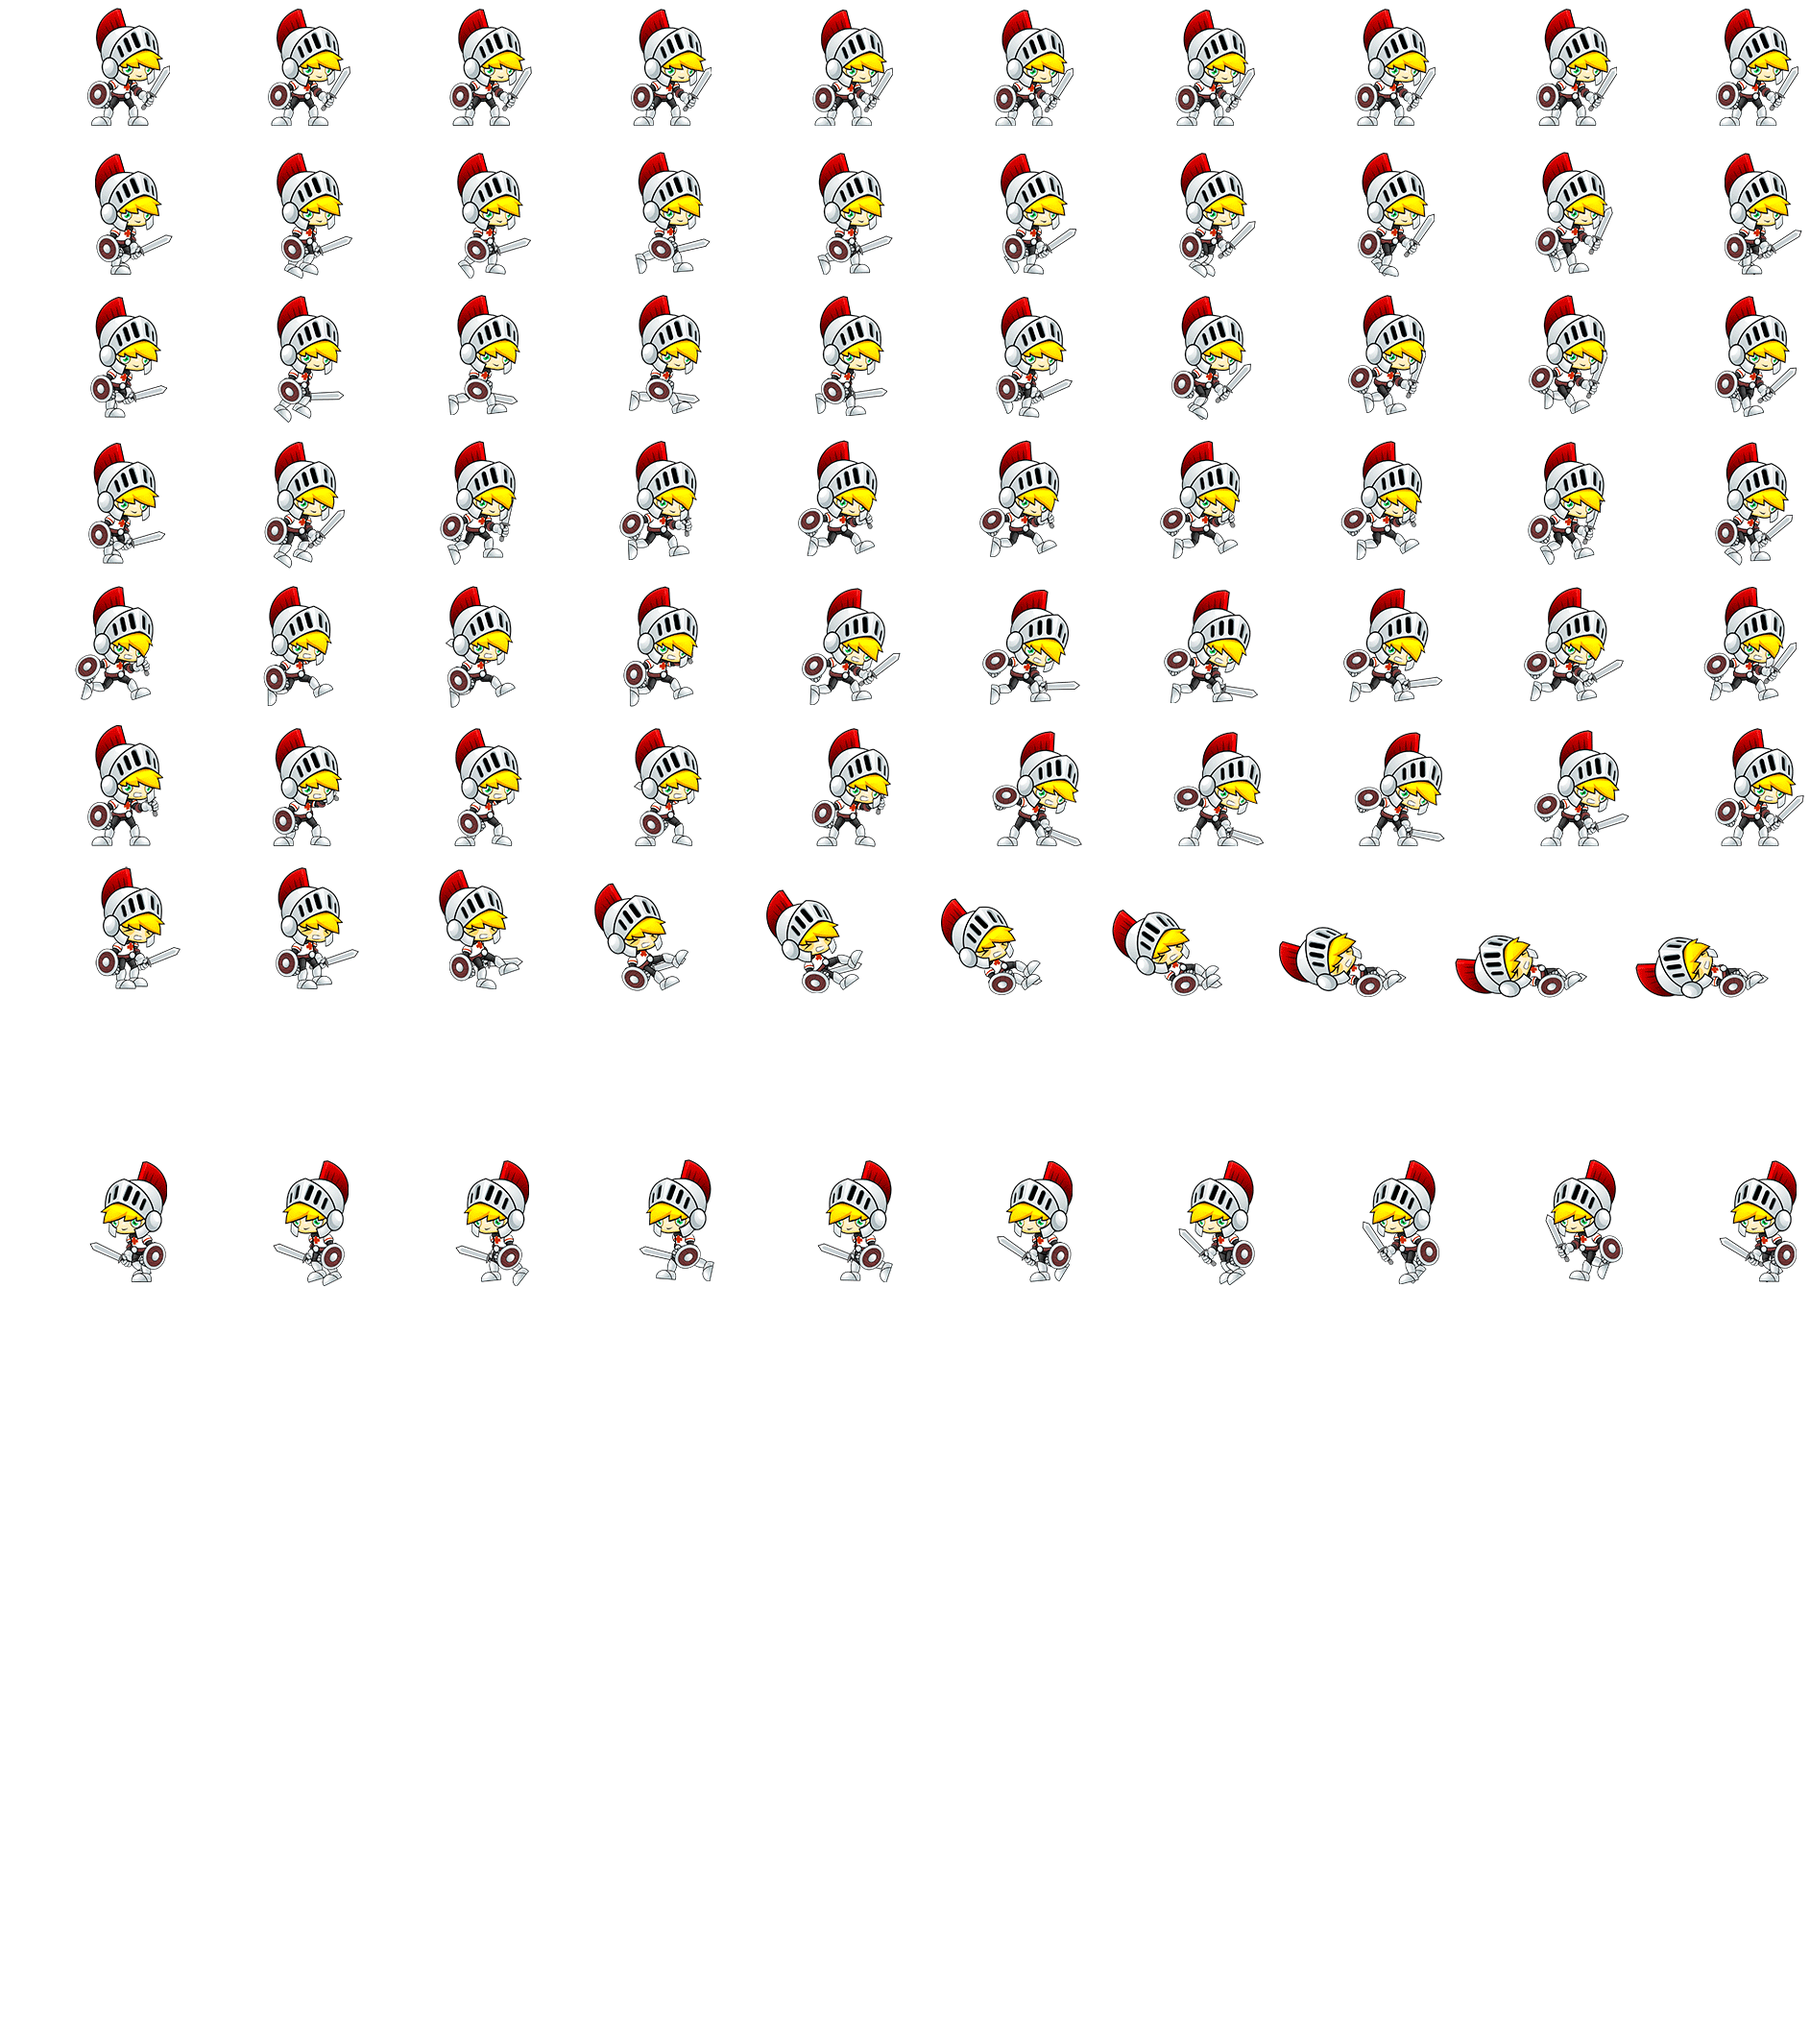
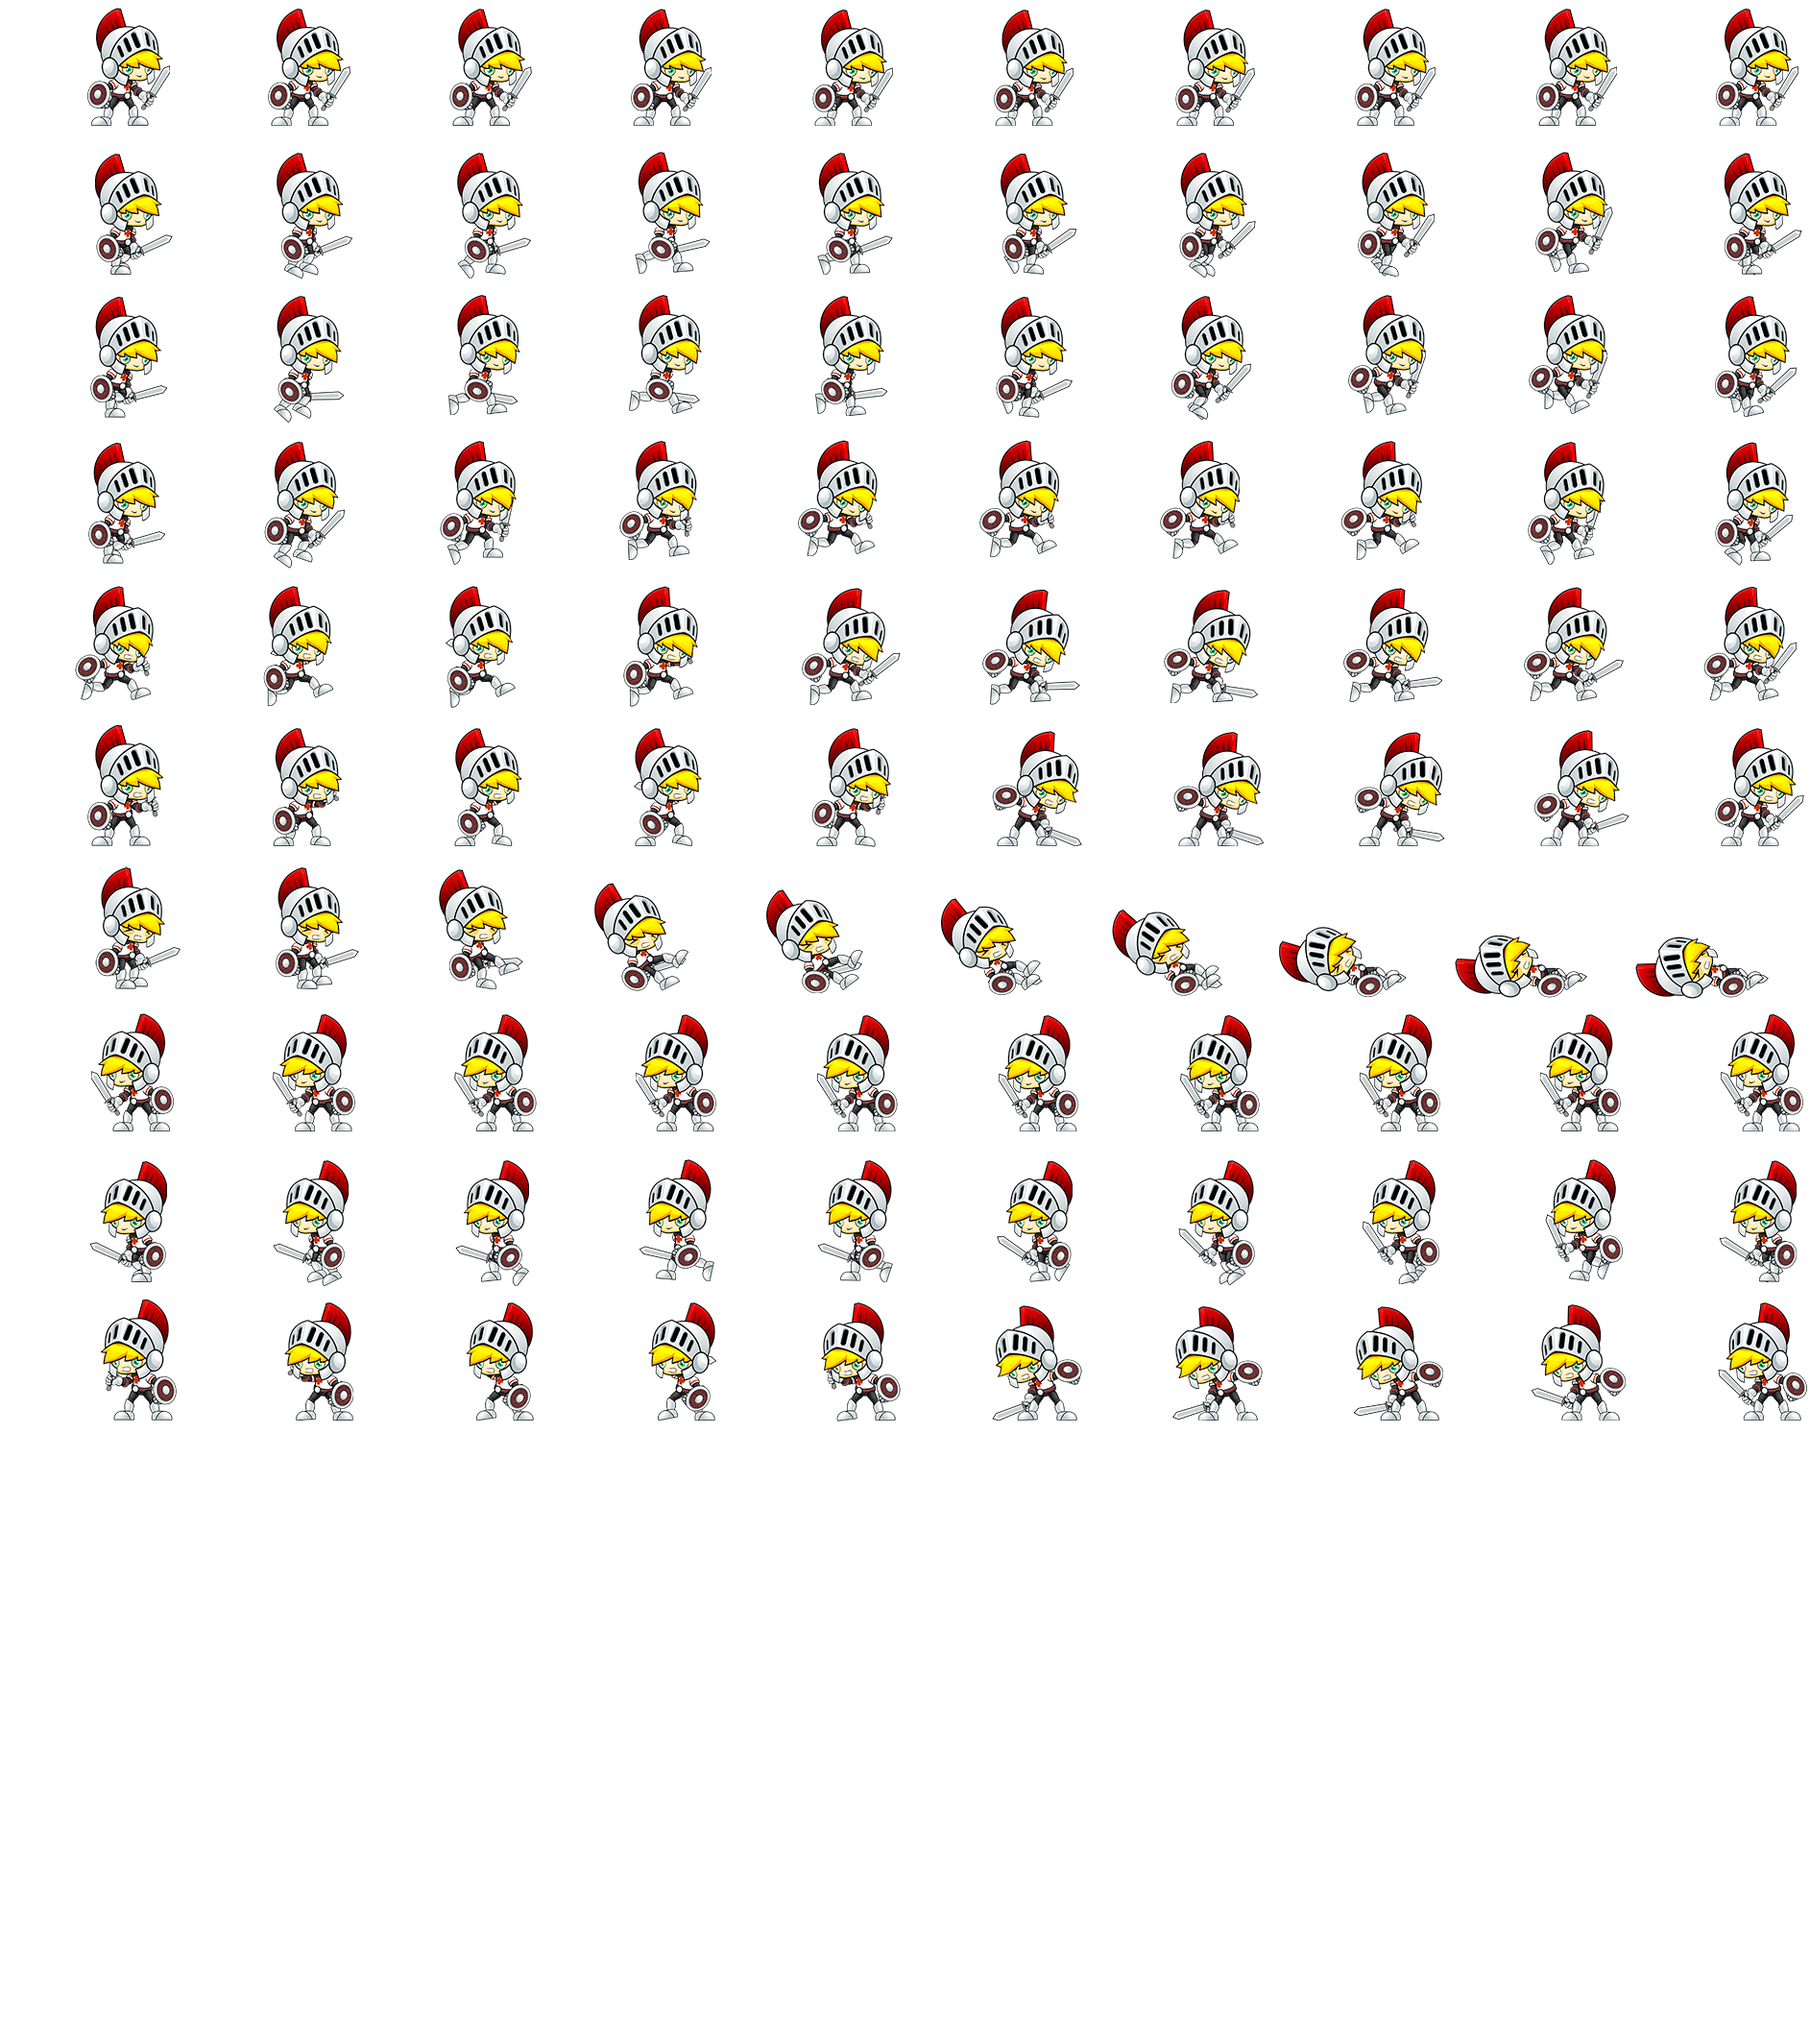
Ataque a izquierda y derecha. Se agrega sonido de golpe

diff --git a/unicen-visualizacion/TP4/EntregaFinal/js/actions.js b/unicen-visualizacion/TP4/EntregaFinal/js/actions.js
@@ -7,11 +7,12 @@ window.addEventListener('keyup',function(e){
     keyState[e.keyCode || e.which] = false;
 },true);   
 
-
+var punch = new Audio('sfx/punch.mp3');
 var game;
 var player;
 var playerDistance = 0;
 var modifDistance = 20;
+var lastKeyState = 0;
 var content = document.getElementById("content");
 var playerWidth= 188.5;
 var playerHeight = 150;
@@ -34,7 +35,7 @@ function Game(player, enemies, score){
 }
 
 Game.prototype.drawScene = function(){
-  document.getElementById("player").className = "player playerIddleLeft";
+  document.getElementById("player").className = "player playerIddleRight";
   document.getElementById("player").style.transform += "translate(" + (game.player.posX - (playerWidth*1.75)) + "px, " + (game.player.posY - playerHeight) + "px)";
 
 }
@@ -45,14 +46,42 @@ Game.prototype.gameLoop = function(){
 		playerDistance += modifDistance;
     	document.getElementById("player").style.transform = "translate(" + ((game.player.posX - playerWidth*1.75)+ playerDistance) + "px," + (game.player.posY - playerHeight) + "px)";
     	document.getElementById("player").className = "player playerWalksRight";
+    	lastKeyState = 68;
     }    
-    if (keyState[65]){ // Left
+    else if (keyState[65]){ // Left
     	playerDistance -= modifDistance;
     	document.getElementById("player").style.transform = "translate(" + ((game.player.posX - playerWidth*1.75) + playerDistance)+ "px," + (game.player.posY - playerHeight) + "px)";
     	document.getElementById("player").className = "player playerWalksLeft";
+    	lastKeyState = 65;
 
     }
-    	setTimeout(game.gameLoop, 75);
+    else if (keyState[17]){ // Ctrl (Attack)
+    	if(lastKeyState == 65){
+    	document.getElementById("player").className = "player playerAttacksLeft";
+    	setTimeout(function(){ 
+          punch.play();
+        }, 100);
+
+    } else {
+    	document.getElementById("player").className = "player playerAttacksRight";
+    	setTimeout(function(){ 
+          punch.play();
+        }, 100);
+    }
+    	
+
+    }
+    else{
+    	if (lastKeyState==68){
+	    	document.getElementById("player").className = "player playerIddleRight";
+    	}
+    	else if (lastKeyState==65) {
+    		document.getElementById("player").className = "player playerIddleLeft";
+
+    	} 
+    	
+    }
+    setTimeout(game.gameLoop, 115);
     // redraw/reposition your object here
     // also redraw/animate any objects not controlled by the user
     
@@ -60,7 +89,7 @@ Game.prototype.gameLoop = function(){
 }
 
 function keyup(){
-  document.getElementById("player").className = "player playerIddleLeft";
+  
 }
 
 function startGame(e){

diff --git a/unicen-visualizacion/TP4/EntregaFinal/css/estilos.css b/unicen-visualizacion/TP4/EntregaFinal/css/estilos.css
@@ -37,20 +37,33 @@ p {
 }
 
 .playerIddleLeft{
-   animation: iddleLeft 1s steps(10) infinite;
+   animation: playerIddleLeft 1s steps(10) infinite;
+}
+.playerIddleRight{
+   animation: playerIddleRight 1s steps(10) infinite;
 }
 .playerDies {
   animation: playerDies 0.5s steps(10) 1;
 }
 .playerWalksRight {
-  animation: playerWalksRight 0.5s steps(10) infinite;
+  animation: playerWalksRight 1s steps(10) infinite;
 }
 .playerWalksLeft {
- animation: playerWalksLeft 0.5s steps(10) infinite;
+ animation: playerWalksLeft 1s steps(10) infinite;
+}
+.playerAttacksLeft {
+  animation: playerAttacksLeft 0.5s steps(10) infinite;
+}
+.playerAttacksRight {
+  animation: playerAttacksRight 0.5s steps(10) infinite;
 }
 
 
-@keyframes iddleLeft {  
+@keyframes playerIddleLeft {  
+  0% {background-position: 0 -1050px; } 
+  100% {background-position: -1885px -1050px; } /* Must be full height of sprite or skipping will happen.*/
+}
+@keyframes playerIddleRight {  
   0% {background-position: 0 0; } 
   100% {background-position: -1885px 0; } /* Must be full height of sprite or skipping will happen.*/
 }
@@ -61,6 +74,14 @@ p {
 @keyframes playerWalksLeft {  
   0% {background-position: 0px -1200px; } 
   100% {background-position: -1885px -1200px; } /* Must be full height of sprite or skipping will happen.*/
+}
+@keyframes playerAttacksLeft {  
+  0% {background-position: 0 -1350px; } 
+  100% {background-position: -1885px -1350px; } /* Must be full height of sprite or skipping will happen.*/
+}
+@keyframes playerAttacksRight {  
+  0% {background-position: 0 -750px; } 
+  100% {background-position: -1885px -750px; } /* Must be full height of sprite or skipping will happen.*/
 }
 @keyframes playerDies {  
   0% {background-position: 0 -900px; } 
